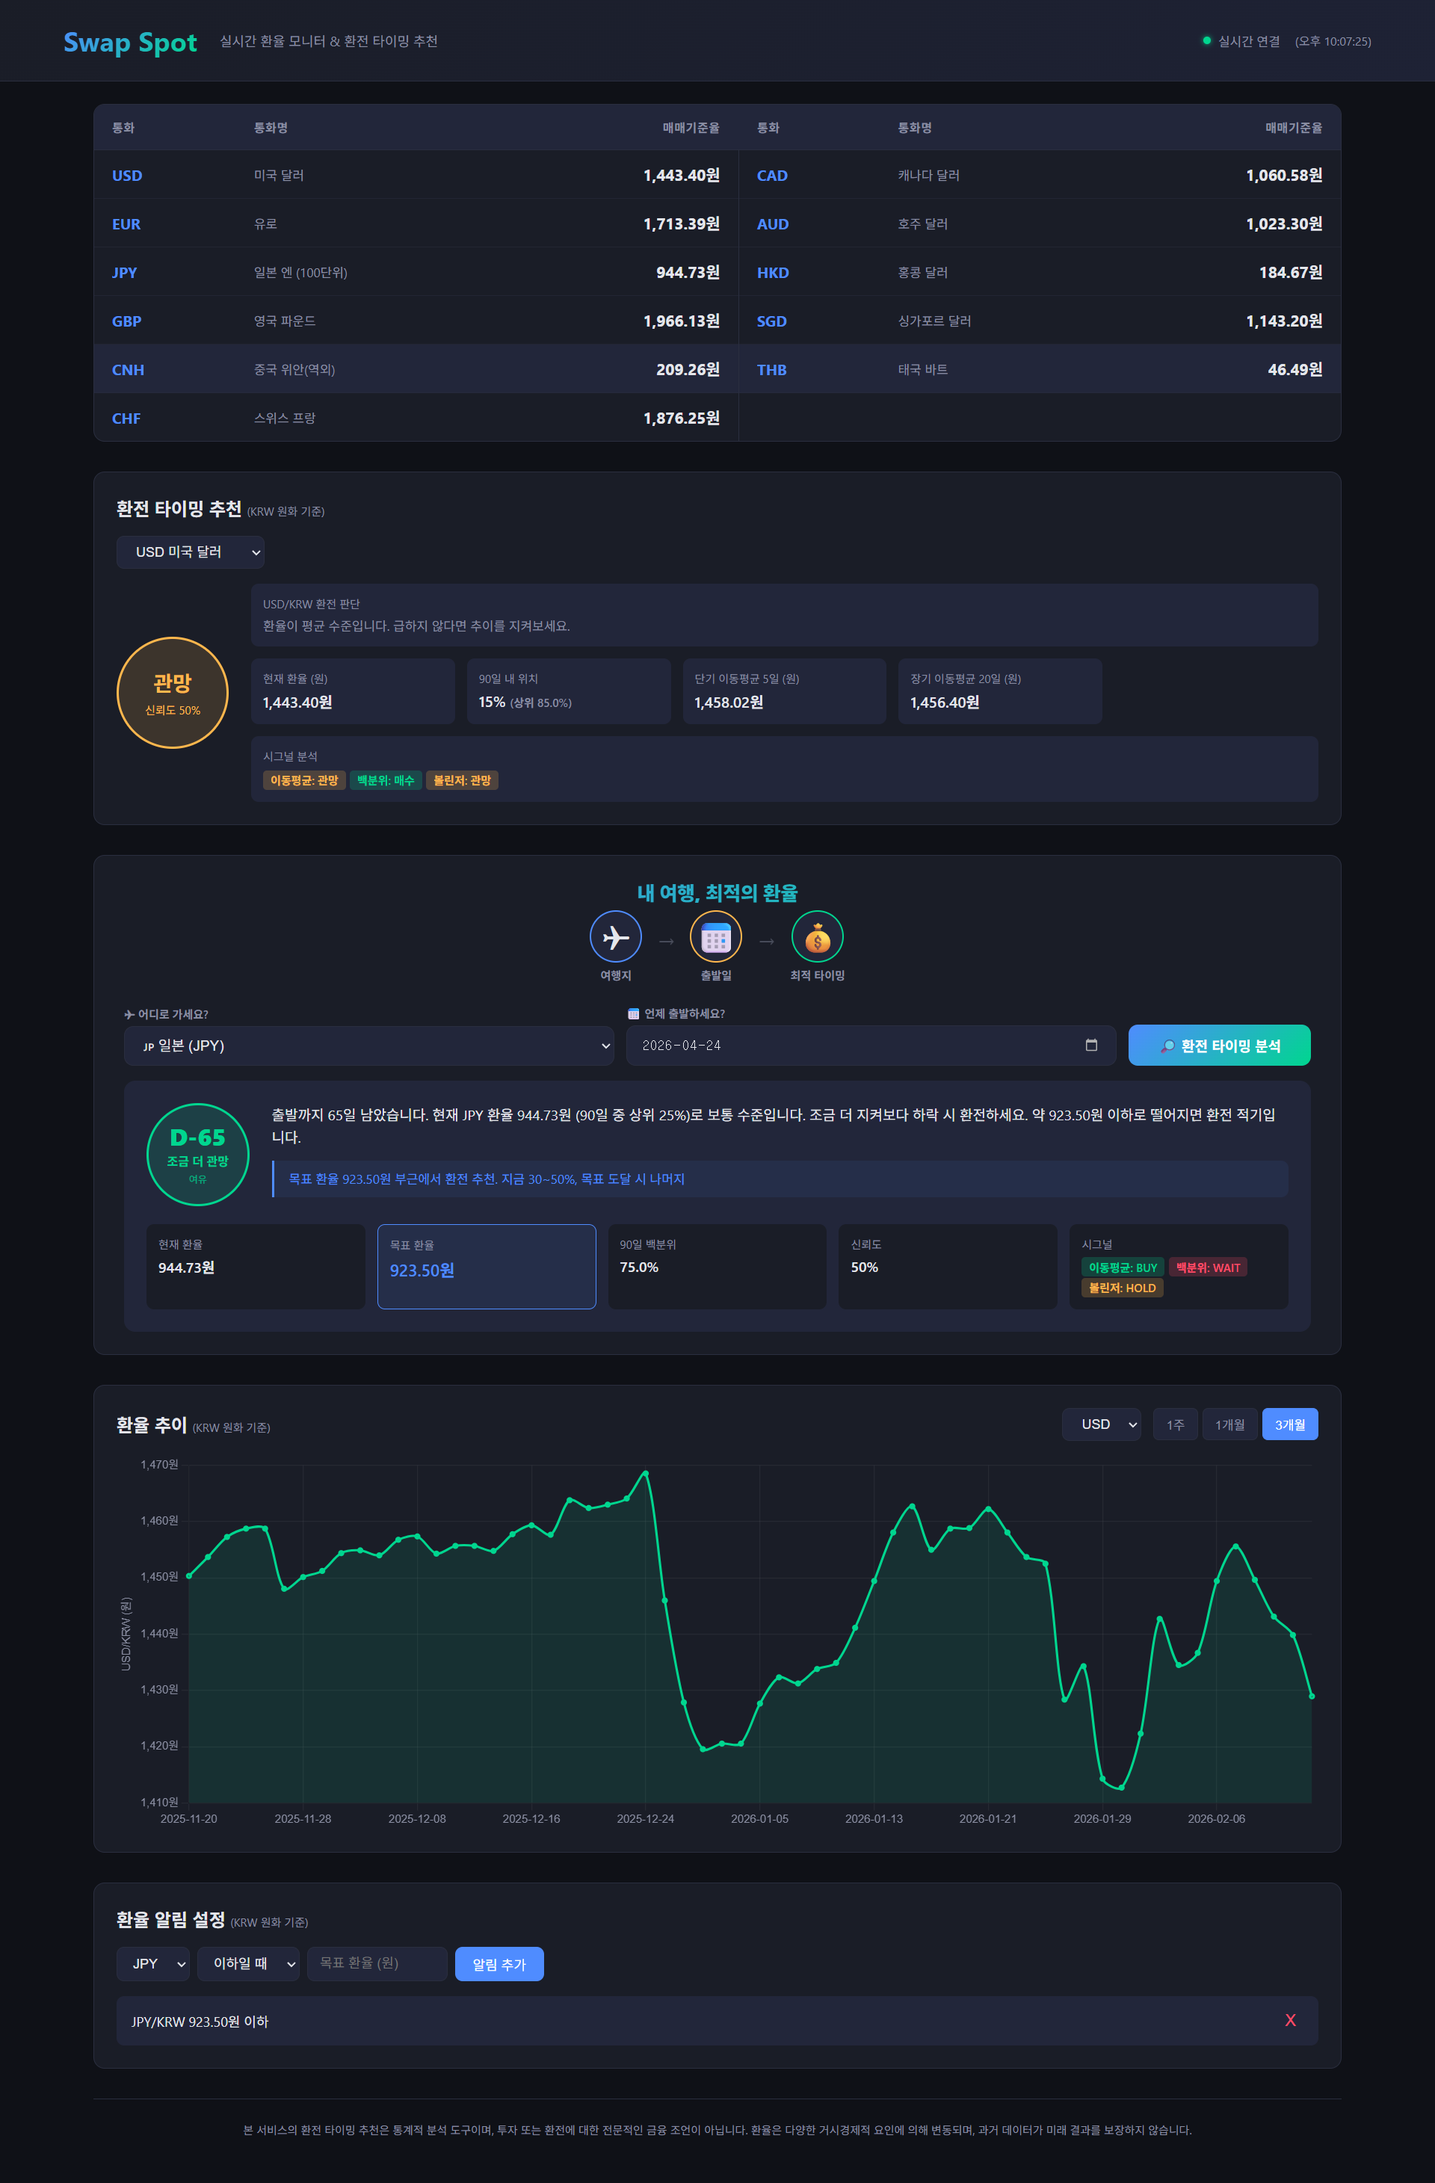
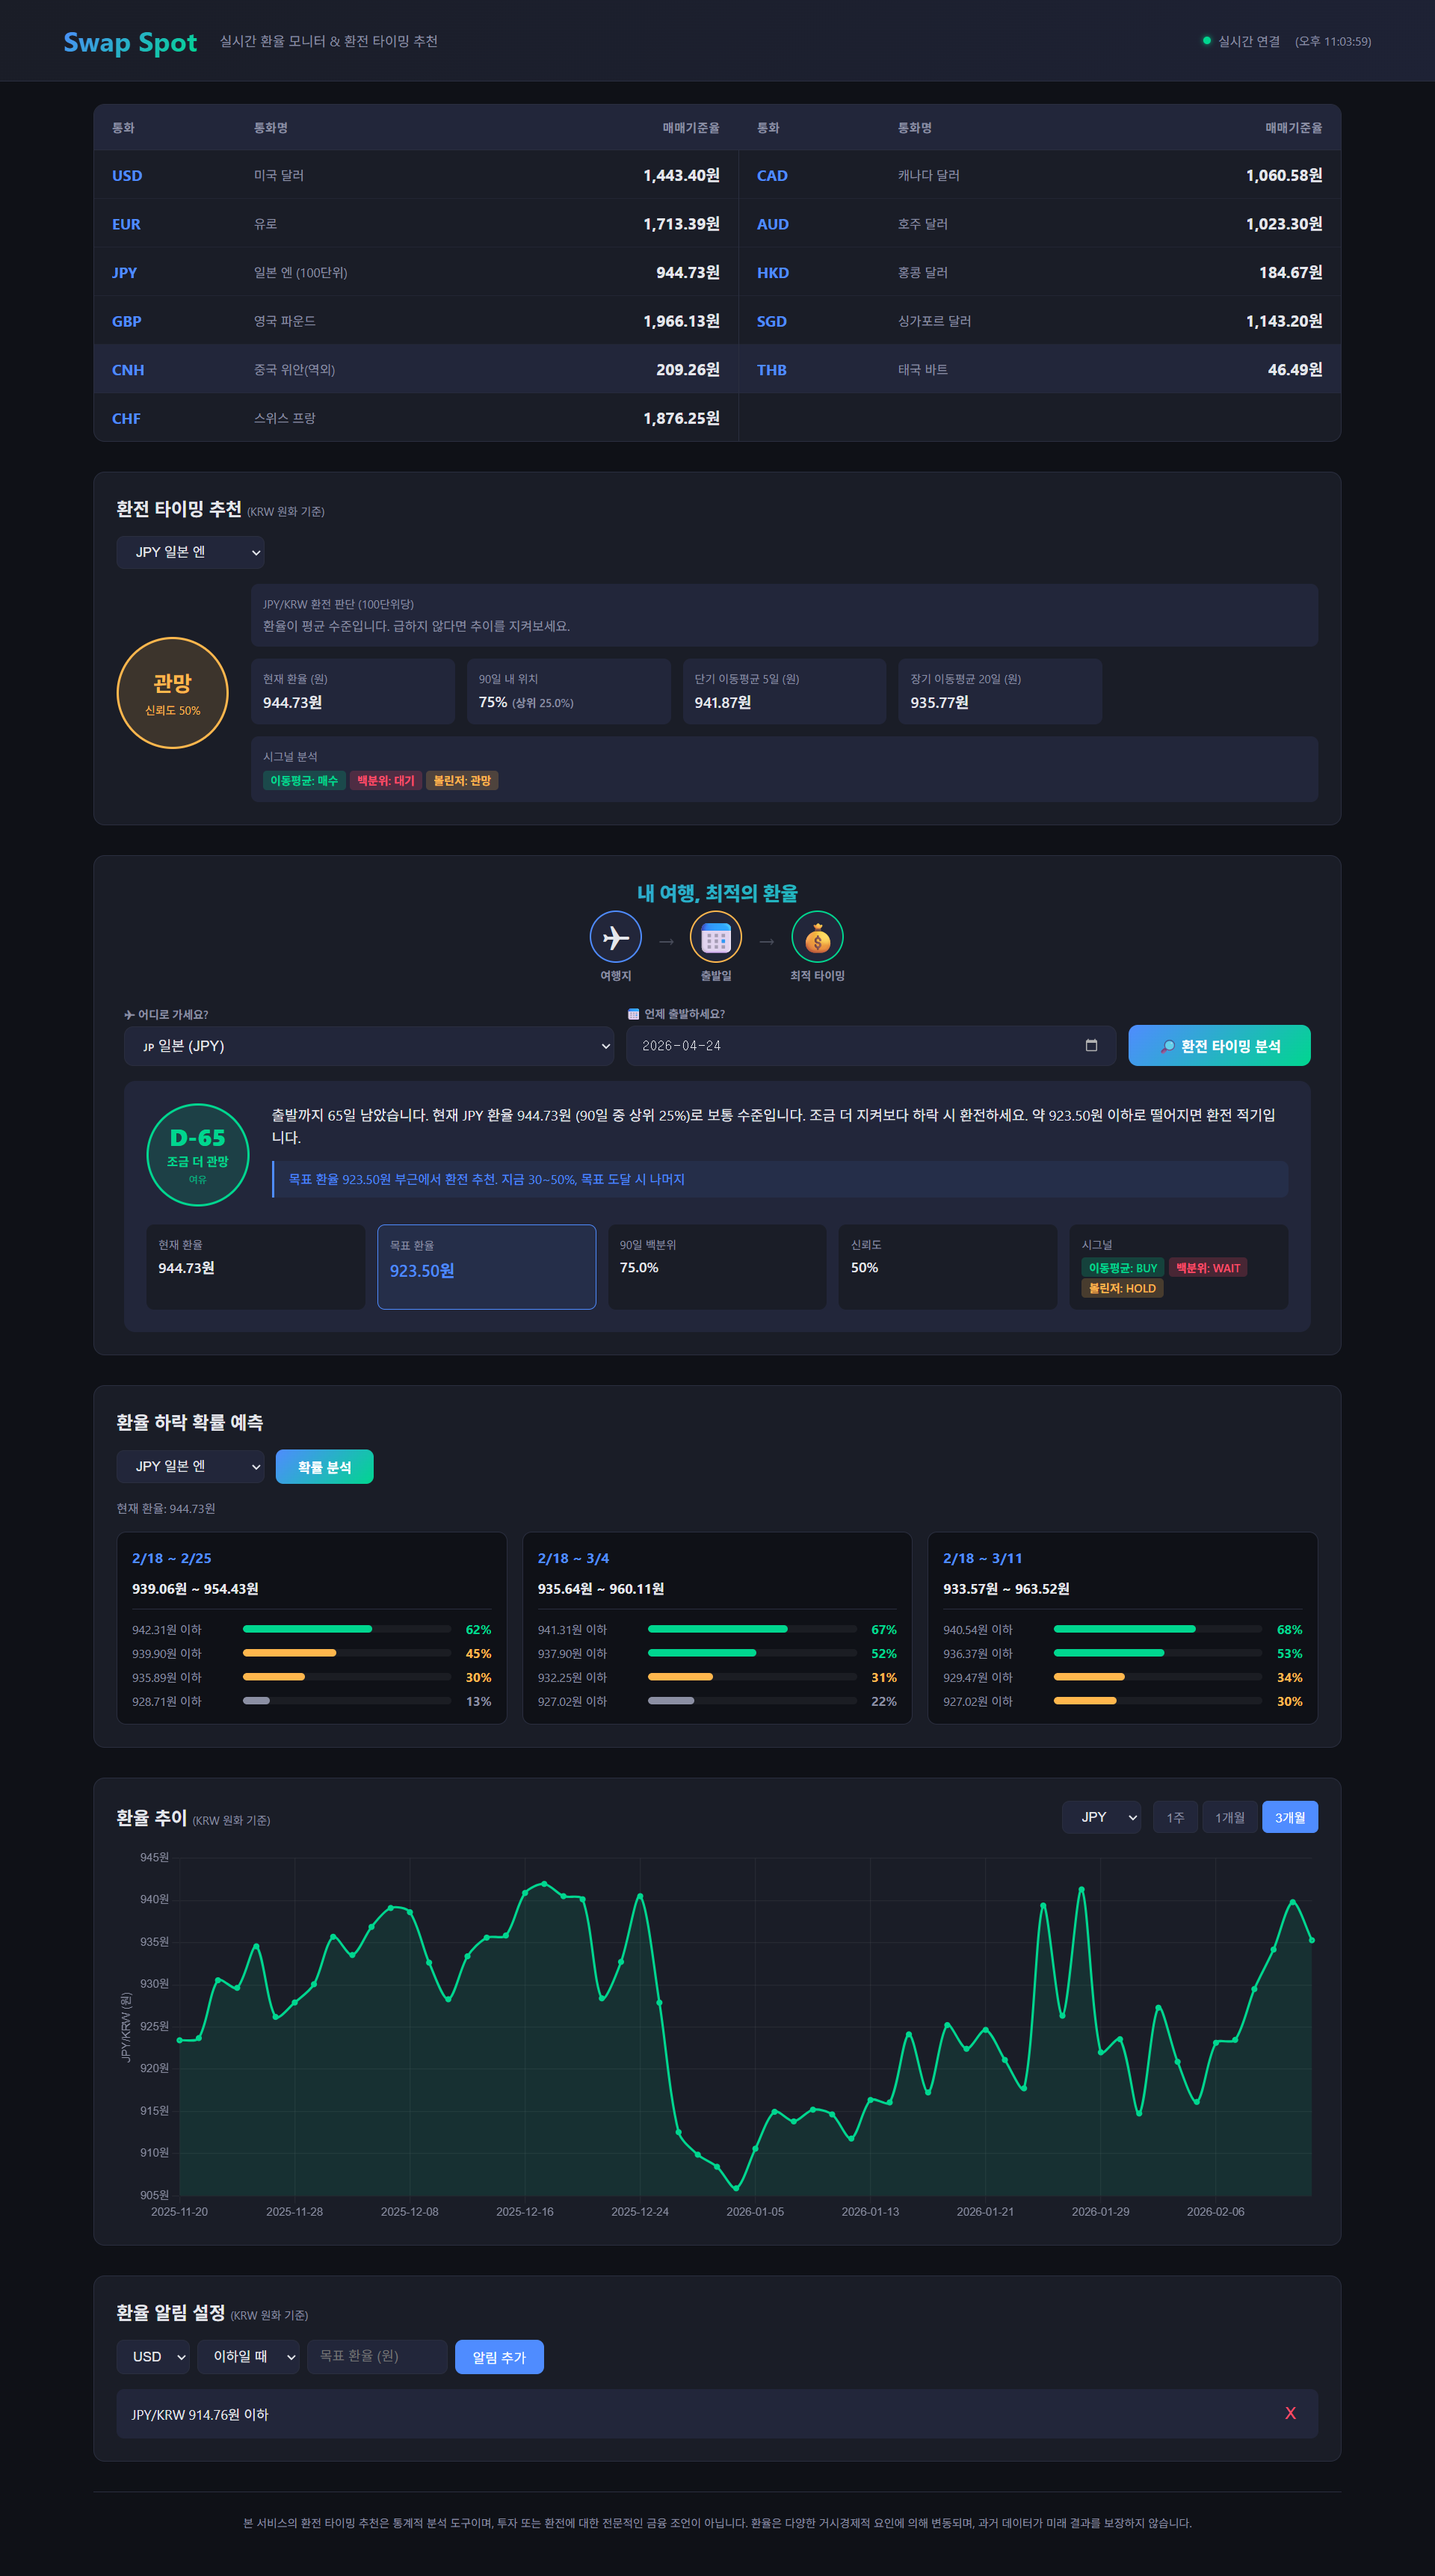
docs: update readme with forecast feature and latest screenshot
- add monte carlo probability forecast section to features
- add forecast api endpoint to api table
- add forecast_engine.py to project structure
- update tech stack with forecast layer
- update alert description with telegram and cooldown
- update project structure comments (asyncio.lock, validation, etc.)
- add health/sources endpoint to api table
- update dashboard screenshot
- update disclaimer to include probability forecast

diff --git a/README.md b/README.md
@@ -30,14 +30,22 @@
 - **목표 환율** 제시 (HOLD/WAIT 시 얼마에 환전하면 좋을지)
 - 분할 환전 비율 추천
 
+### 환율 하락 확률 예측
+- **Monte Carlo 시뮬레이션** (Historical Block Bootstrap, 5,000회)
+- 1주 / 2주 / 3주 단위 실제 날짜 범위로 예측
+- 변동성 기반 **동적 목표가** 자동 산출 (0.15σ ~ 1.0σ)
+- 목표가별 하락 확률을 시각적 바 차트로 표시
+- 5분 캐시로 빠른 응답
+
 ### 환율 추이 차트
 - Chart.js 기반 인터랙티브 차트 (1주 / 1개월 / 3개월)
 - 마우스 휠 줌, 드래그 팬 지원
 - 환전 시 수령액(TTB) 기준 표시
 
 ### 환율 알림
-- 목표 환율 도달 시 브라우저 알림
+- 목표 환율 도달 시 브라우저 + Telegram 알림
 - 조건: 이하 / 이상 / 변동률(%)
+- 60분 쿨다운으로 중복 발송 방지
 
 ---
 
@@ -51,6 +59,7 @@
 | Scheduler | APScheduler | 인프로세스 주기적 데이터 수집 |
 | Database | SQLite (aiosqlite) | 무설정, 경량 히스토리 저장 |
 | ORM | SQLAlchemy 2.0 (async) | 타입 안전한 DB 접근 |
+| Forecast | Monte Carlo (stdlib) | Block Bootstrap 확률 예측 |
 | Frontend | Vanilla HTML/CSS/JS | 빌드 불필요, 즉시 배포 |
 | Chart | Chart.js + Zoom Plugin | 인터랙티브 시계열 차트 |
 | Realtime | WebSocket | 브라우저에 즉시 push |
@@ -111,32 +120,33 @@ uvicorn app.main:app --reload --host 0.0.0.0 --port 8000
 ```
 app/
 ├── main.py                    # FastAPI 앱 진입점
-├── config.py                  # 환경변수 설정
+├── config.py                  # 환경변수 설정 (env, api_timeout 등)
 ├── models/                    # SQLAlchemy ORM
 │   ├── database.py            # async 엔진 + 세션
 │   ├── exchange_rate.py       # 환율 테이블
-│   └── alert.py               # 알림 설정 테이블
+│   └── alert.py               # 알림 설정 테이블 (is_active 인덱스)
 ├── sources/                   # 데이터 수집
 │   ├── koreaexim.py           # 수출입은행 API
 │   ├── ecos.py                # 한국은행 ECOS API
 │   ├── hanabank.py            # 하나은행 스크래퍼
 │   └── aggregator.py          # 다중 소스 통합
 ├── services/                  # 비즈니스 로직
-│   ├── rate_service.py        # 환율 캐시 + DB 저장
-│   ├── timing_engine.py       # 3-Signal 타이밍 알고리즘
-│   ├── alert_service.py       # 알림 평가 + 발송
+│   ├── rate_service.py        # 환율 캐시 (asyncio.Lock) + DB 저장
+│   ├── timing_engine.py       # 3-Signal 타이밍 + 여행 플래너
+│   ├── forecast_engine.py     # Monte Carlo 확률 예측
+│   ├── alert_service.py       # 알림 평가 + 쿨다운 + Telegram 재시도
 │   └── scheduler.py           # 주기적 데이터 수집
 ├── api/                       # 엔드포인트
-│   ├── routes_rates.py        # 환율 + 타이밍 REST API
+│   ├── routes_rates.py        # 환율 + 타이밍 + 예측 REST API
 │   ├── routes_alerts.py       # 알림 CRUD API
 │   └── websocket.py           # 실시간 WebSocket
-├── schemas/                   # Pydantic 스키마
+├── schemas/                   # Pydantic 스키마 (알림 조건 검증 포함)
 └── utils/                     # 유틸리티
 
 static/                        # 프론트엔드
 ├── index.html                 # SPA 대시보드
-├── css/style.css              # 다크 테마 스타일
-├── js/app.js                  # 메인 로직
+├── css/style.css              # 다크 테마 스타일 (반응형 3단계)
+├── js/app.js                  # 메인 로직 (WS 지수 백오프, 디바운스)
 └── images/                    # 스크린샷
 ```
 
@@ -149,6 +159,8 @@ static/                        # 프론트엔드
 | `GET` | `/api/rates/latest` | 주요 통화 최신 환율 |
 | `GET` | `/api/rates/timing/{currency}` | 환전 타이밍 분석 |
 | `GET` | `/api/rates/travel-timing/{currency}?travel_date=` | 여행 환전 플래너 |
+| `GET` | `/api/rates/forecast/{currency}` | 환율 하락 확률 예측 (Monte Carlo) |
+| `GET` | `/api/rates/health/sources` | 데이터 소스 헬스체크 |
 | `GET` | `/api/rates/{currency}?days=30` | 환율 히스토리 |
 | `GET` | `/api/alerts/` | 알림 목록 |
 | `POST` | `/api/alerts/` | 알림 추가 |
@@ -160,4 +172,4 @@ static/                        # 프론트엔드
 
 ## ⚠ Disclaimer
 
-본 서비스의 환전 타이밍 추천은 **통계적 분석 도구**이며, 투자 또는 환전에 대한 전문적인 금융 조언이 아닙니다. 환율은 다양한 거시경제적 요인에 의해 변동되며, 과거 데이터가 미래 결과를 보장하지 않습니다.
+본 서비스의 환전 타이밍 추천 및 확률 예측은 **통계적 분석 도구**이며, 투자 또는 환전에 대한 전문적인 금융 조언이 아닙니다. 환율은 다양한 거시경제적 요인에 의해 변동되며, 과거 데이터가 미래 결과를 보장하지 않습니다.
